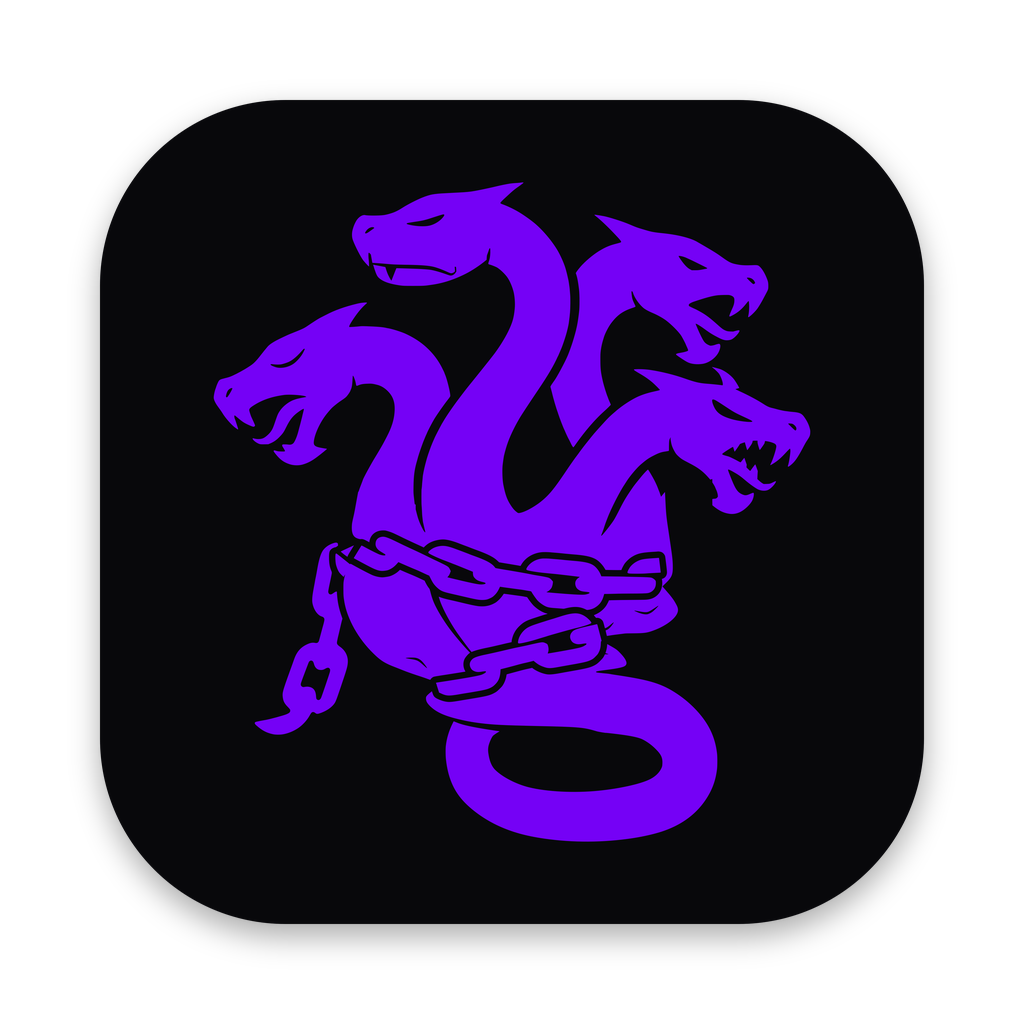
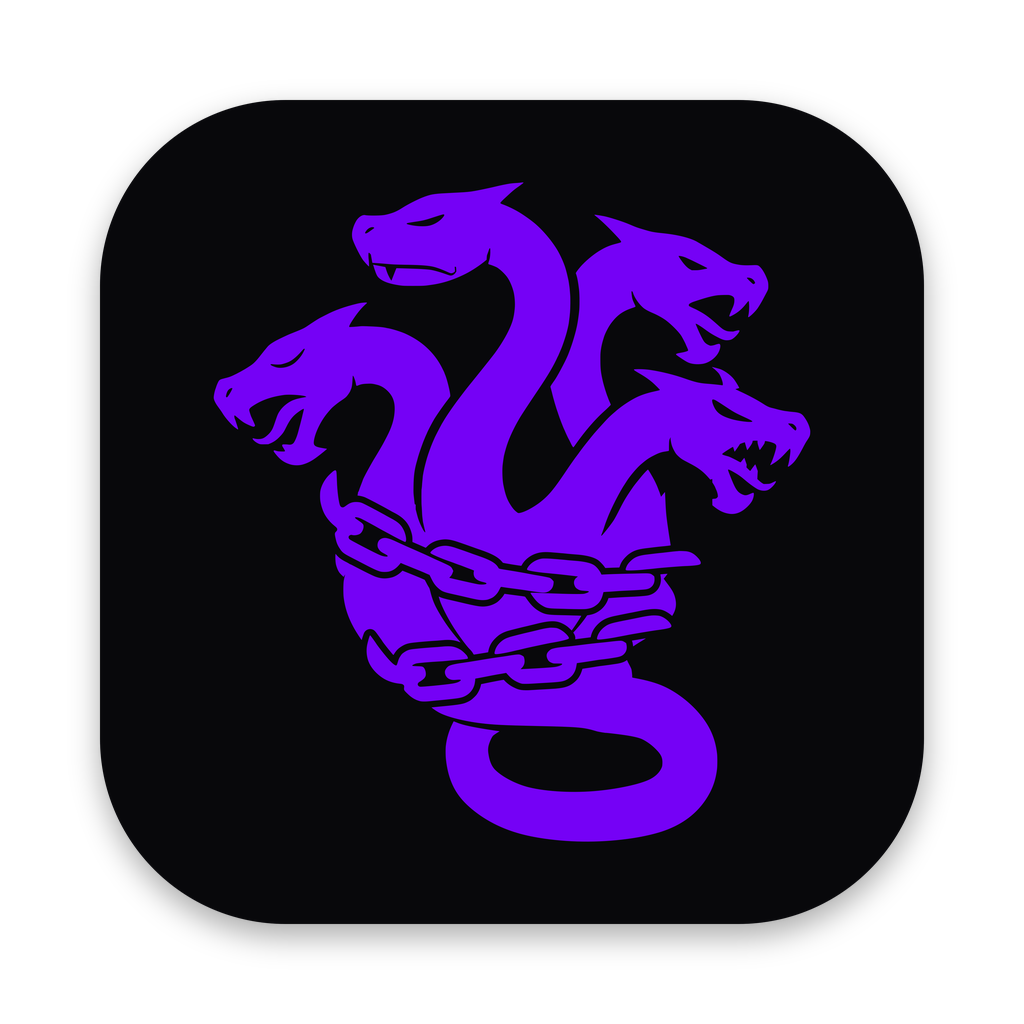
Let the chains wrap past the hydra's sides, and drop the loose end
Both wraps now run past the body's outline on each side, so the hydra
reads as wrapped rather than as a chain that stops short of its edges: a
whole ring straddles each side, and on the left each chain leads off with
the old chain's own end ring, curling round the body the way the X's ends
used to. The lower wrap tilts a little less so its right end clears the
upper one, and the loose end hanging on the left is gone.

The rings keep the old chain's spacing (within 2%) and the pinch in the
body stays above and below each wrap. Every logo and icon file is
rendered again from the new vector master.

Claude-Session: https://claude.ai/code/session_01YQHsQ6emQXnjGWU3EZGGrj

Changed region(s): [[0.25, 0.4688, 0.6875, 0.7188]]

diff --git a/CHANGELOG.md b/CHANGELOG.md
@@ -61,9 +61,8 @@ home for the project at [hydractrl.d17e.dev](https://hydractrl.d17e.dev/).
   Pulse follows the XY pad. Scenes you already have are left alone.
 - A new logo: the hydra's heads each have a character of their own. One
   keeps its jaws shut and stays in control, one howls with its eyes closed
-  and one rages. The chains wrap round the body and bite into it, with a
-  loose end hanging free. The starter scenes that load the logo show the
-  new one.
+  and one rages. The chains wrap round the body and bite into it. The
+  starter scenes that load the logo show the new one.
 - New icons, a deep violet hydra on near-black: the favicon, the home screen
   icons, the logo in the landing page header and the desktop app, whose icon
   now has rounded corners like the other apps in the Dock.
